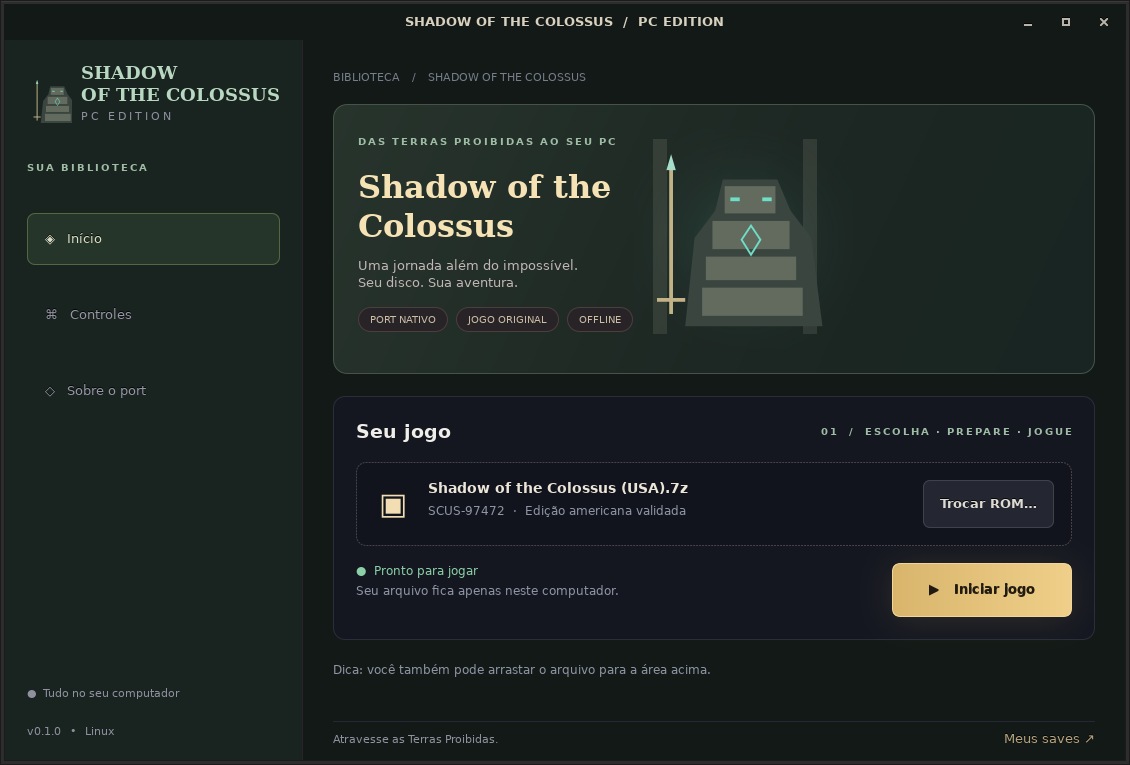
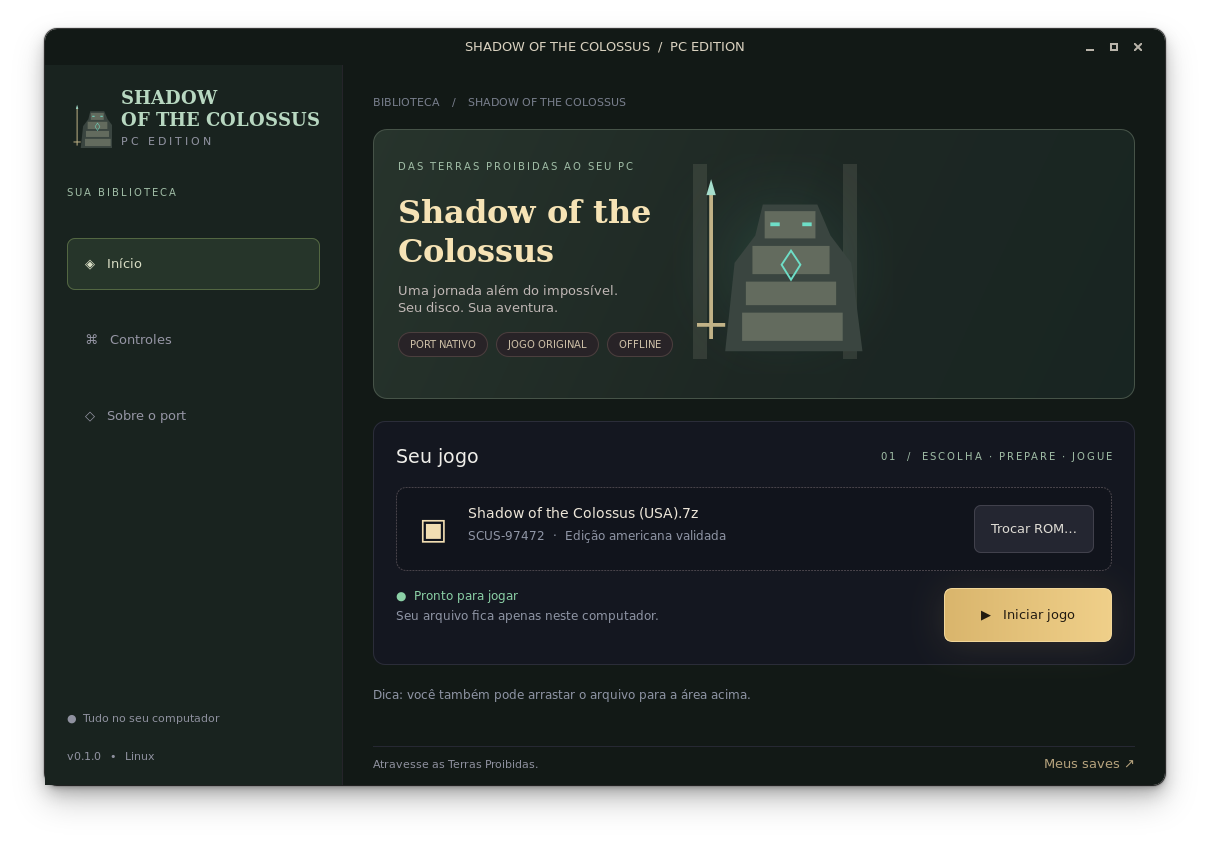
Load bundled desktop fonts explicitly on newer Linux systems

diff --git a/tools/desktop/main.py b/tools/desktop/main.py
@@ -21,6 +21,16 @@ if len(sys.argv) > 1 and sys.argv[1] == "--pipeline-helper":
 if getattr(sys,"frozen",False):
     os.environ.pop("GTK_MODULES",None)
     os.environ["FONTCONFIG_FILE"]=str(assets_directory() / "fonts.conf")
+    # Register the shipped fonts by absolute path. Older fontconfig resolves
+    # relative font directories differently on newer Linux desktops.
+    import ctypes
+    fontconfig = ctypes.CDLL("libfontconfig.so.1")
+    fontconfig.FcConfigGetCurrent.restype = ctypes.c_void_p
+    fontconfig.FcConfigAppFontAddFile.argtypes = [ctypes.c_void_p, ctypes.c_char_p]
+    fontconfig.FcConfigAppFontAddFile.restype = ctypes.c_int
+    for font_file in sorted((assets_directory() / "fonts").glob("*.ttf")):
+        if not fontconfig.FcConfigAppFontAddFile(fontconfig.FcConfigGetCurrent(), os.fsencode(font_file)):
+            print("Could not register bundled font", file=sys.stderr)
 
 import gi
 gi.require_version("Gtk", "3.0")

diff --git a/docs/LINUX-VALIDATION.md b/docs/LINUX-VALIDATION.md
@@ -1,21 +1,25 @@
 # Validação Linux 0.1.0
 
 Build nativo original fixado em Celosia `e0bc43d6d4eb8cc1a022c4b277f396be3ee4fbbe`.
-A implementação Linux do runtime e do launcher corresponde ao commit
+A implementação Linux do runtime corresponde ao commit
 `8e9f3a8d72dcf41b605c291b0e0627c47080ab81`; os commits seguintes acrescentam
-metadados, documentação e roteiros de validação.
+metadados, documentação, roteiros de validação e a correção de fontes do launcher.
 
 ## Pacote e primeira preparação
 
 - Linux x86_64, compilador GCC 13 incluído, runtime C++20 e OpenGL 3.3.
 - Kit de compilação: `1b65ad890494855b3f681e27`.
-- Arquivo: `ShadowOfTheColossusPC-0.1.0-linux-x86_64.tar.gz`, 158096132 bytes.
[1 lines of base64/hex data omitted]
+- Arquivo: `ShadowOfTheColossusPC-0.1.0-linux-x86_64.tar.gz`, 158096280 bytes.
[1 lines of base64/hex data omitted]
 
 A primeira preparação foi executada **pelo launcher empacotado**, partindo do
 arquivo 7z fornecido pelo usuário, em Ubuntu 24.04 isolado, sem rede, com a
 instalação somente para leitura. O ambiente não tinha Python, GCC, G++, CMake
-nem .NET instalados. Esses componentes foram usados a partir do próprio pacote.
+nem .NET instalados. Python, o compilador e as bibliotecas necessários vieram do próprio pacote;
+CMake e .NET não foram usados nessa etapa.
+
+Após o ajuste exclusivamente visual de fontes, o launcher foi reempacotado
+com o mesmo kit nativo e seu boot foi novamente testado no ambiente isolado.
 
 O processo importou o disco USA SCUS-97472, recompilou o boot, capturou os módulos
 KERNEL → MANAGER → GAMECORE e compilou o executável Linux com duas tarefas.

diff --git a/README.md b/README.md
@@ -13,6 +13,8 @@ continua em andamento na base Celosia.
 
 **Nenhuma ROM, BIOS ou código gerado do jogo é distribuído.**
 
+![Launcher Linux](docs/launcher-linux.png)
+
 ## Jogar
 
 1. Baixe o pacote Linux em [Releases](https://github.com/GenissonEmilio/ShadowOfTheColossusPC/releases).
